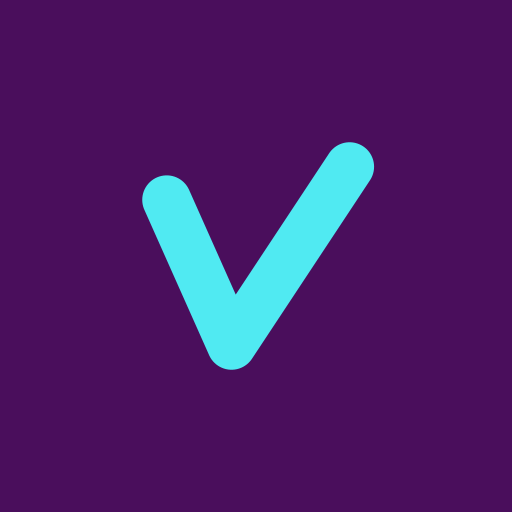
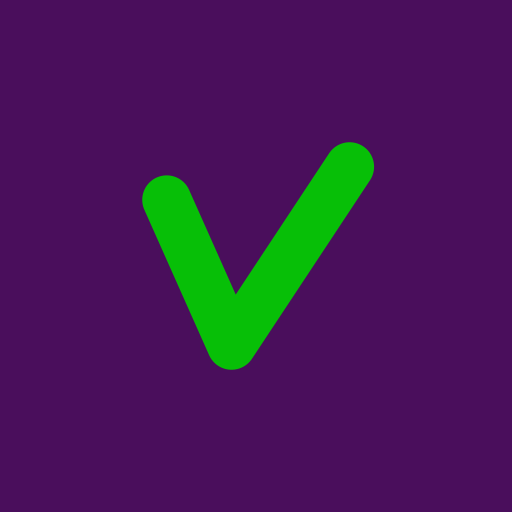
feat: green accent #07bf07 instead of aqua, in the app and on vyskar.com
The brand accent changes from aqua #50eaf2 to green #07bf07 everywhere:
theme colors, hover and border shades, the button glow, the logo check
mark in favicons, app icons, iOS splash screens and the inline splash.

Changed region(s): [[0.25, 0.2812, 0.75, 0.75]]

diff --git a/frontend/src/index.css b/frontend/src/index.css
@@ -13,11 +13,11 @@
   --color-muted: #b4b1d6;
   --color-dim: #9e9bc4;
 
-  /* Brand: aqua accent, same as the landing page. */
-  --color-accent: #50eaf2; /* 10.87:1 on page, 12.15:1 on card */
-  --color-accent-hover: #86f1f6; /* button text on it 13.44:1 */
-  --color-on-accent: #2a0835; /* dark purple text on aqua, 12.15:1; white on aqua fails */
-  --color-plum: #4a0e5c; /* surface only; white 13.92:1, aqua 9.54:1 on it */
+  /* Brand: green accent, same as the landing page. */
+  --color-accent: #07bf07; /* 6.39:1 on page, 7.15:1 on card */
+  --color-accent-hover: #2fd22f; /* button text on it 8.76:1 */
+  --color-on-accent: #2a0835; /* dark purple text on green, 7.15:1; white on green fails (2.48:1) */
+  --color-plum: #4a0e5c; /* surface only; white 13.92:1, green 5.61:1 on it */
 
   --font-display: "Unbounded", sans-serif;
   --font-sans: "DM Sans", system-ui, sans-serif;
@@ -60,17 +60,17 @@ a:hover {
 
 @keyframes vy-lift {
   0% {
-    box-shadow: 0 0 0 0 rgba(80, 234, 242, 0), 0 0 0 0 rgba(0, 0, 0, 0), 0 0 0 0 rgba(0, 0, 0, 0);
+    box-shadow: 0 0 0 0 rgba(7, 191, 7, 0), 0 0 0 0 rgba(0, 0, 0, 0), 0 0 0 0 rgba(0, 0, 0, 0);
     transform: scale(1);
   }
   15%,
   60% {
-    box-shadow: 0 0 22px 2px rgba(80, 234, 242, 0.28), 0 0 60px 6px rgba(0, 0, 0, 0.7),
+    box-shadow: 0 0 22px 2px rgba(7, 191, 7, 0.28), 0 0 60px 6px rgba(0, 0, 0, 0.7),
       0 0 18px 2px rgba(0, 0, 0, 0.5);
     transform: scale(1.035);
   }
   100% {
-    box-shadow: 0 0 0 0 rgba(80, 234, 242, 0), 0 0 0 0 rgba(0, 0, 0, 0), 0 0 0 0 rgba(0, 0, 0, 0);
+    box-shadow: 0 0 0 0 rgba(7, 191, 7, 0), 0 0 0 0 rgba(0, 0, 0, 0), 0 0 0 0 rgba(0, 0, 0, 0);
     transform: scale(1);
   }
 }

diff --git a/landing/src/index.css b/landing/src/index.css
@@ -12,12 +12,12 @@
   --color-fg: #f1effa;
   --color-muted: #b4b1d6;
   --color-dim: #9e9bc4;
-  /* Brand: aqua accent, plum surface. Contrast checked against ink, card and plum. */
-  --color-accent: #50eaf2; /* 10.87:1 on page, 12.15:1 on card, 8.01:1 on the closing plum */
-  --color-accent-hover: #86f1f6; /* button text on it 13.44:1 */
-  --color-accent-deep: #2bbcc4; /* run card border, 7.33:1 on card */
-  --color-on-accent: #2a0835; /* dark purple text on cyan, 12.15:1; white on cyan fails (1.46:1) */
-  --color-plum: #5c1373; /* closing section; fg 10.28:1, cyan 8.01:1 */
+  /* Brand: green accent, plum surface. Contrast checked against ink, card and plum. */
+  --color-accent: #07bf07; /* 6.39:1 on page, 7.15:1 on card, 4.71:1 on the closing plum */
+  --color-accent-hover: #2fd22f; /* button text on it 8.76:1 */
+  --color-accent-deep: #069a06; /* run card border, 4.75:1 on card */
+  --color-on-accent: #2a0835; /* dark purple text on green, 7.15:1; white on green fails (2.48:1) */
+  --color-plum: #5c1373; /* closing section; fg 10.28:1, green 4.71:1 */
 
   --font-display: "Unbounded", sans-serif;
   --font-sans: "DM Sans", system-ui, sans-serif;

diff --git a/frontend/index.html b/frontend/index.html
@@ -62,7 +62,7 @@
   </head>
   <body>
     <div id="splash" aria-hidden="true">
-      <svg viewBox="98 90 322 316" fill="none"><polyline points="132,170 222,372 386,124" stroke="#50EAF2" stroke-width="68" stroke-linecap="round" stroke-linejoin="round" fill="none"/></svg>
+      <svg viewBox="98 90 322 316" fill="none"><polyline points="132,170 222,372 386,124" stroke="#07BF07" stroke-width="68" stroke-linecap="round" stroke-linejoin="round" fill="none"/></svg>
       <p>Vyskar</p>
     </div>
     <div id="root"></div>

diff --git a/frontend/scripts/splash-screen.html b/frontend/scripts/splash-screen.html
@@ -14,7 +14,7 @@
     </style>
   </head>
   <body>
-    <svg viewBox="98 90 322 316" fill="none" aria-hidden="true"><polyline points="132,170 222,372 386,124" stroke="#50EAF2" stroke-width="68" stroke-linecap="round" stroke-linejoin="round" fill="none"/></svg>
+    <svg viewBox="98 90 322 316" fill="none" aria-hidden="true"><polyline points="132,170 222,372 386,124" stroke="#07BF07" stroke-width="68" stroke-linecap="round" stroke-linejoin="round" fill="none"/></svg>
     <p>Vyskar</p>
   </body>
 </html>

diff --git a/landing/src/HindiPage.jsx b/landing/src/HindiPage.jsx
@@ -21,7 +21,7 @@ const LOOP = 8000;
 const FINAL = 5000; // the still frame shown when motion is reduced
 
 const C = {
-  accent: "#50eaf2",
+  accent: "#07bf07",
   fg: "#f1effa",
   muted: "#b4b1d6",
   dim: "#9e9bc4",
